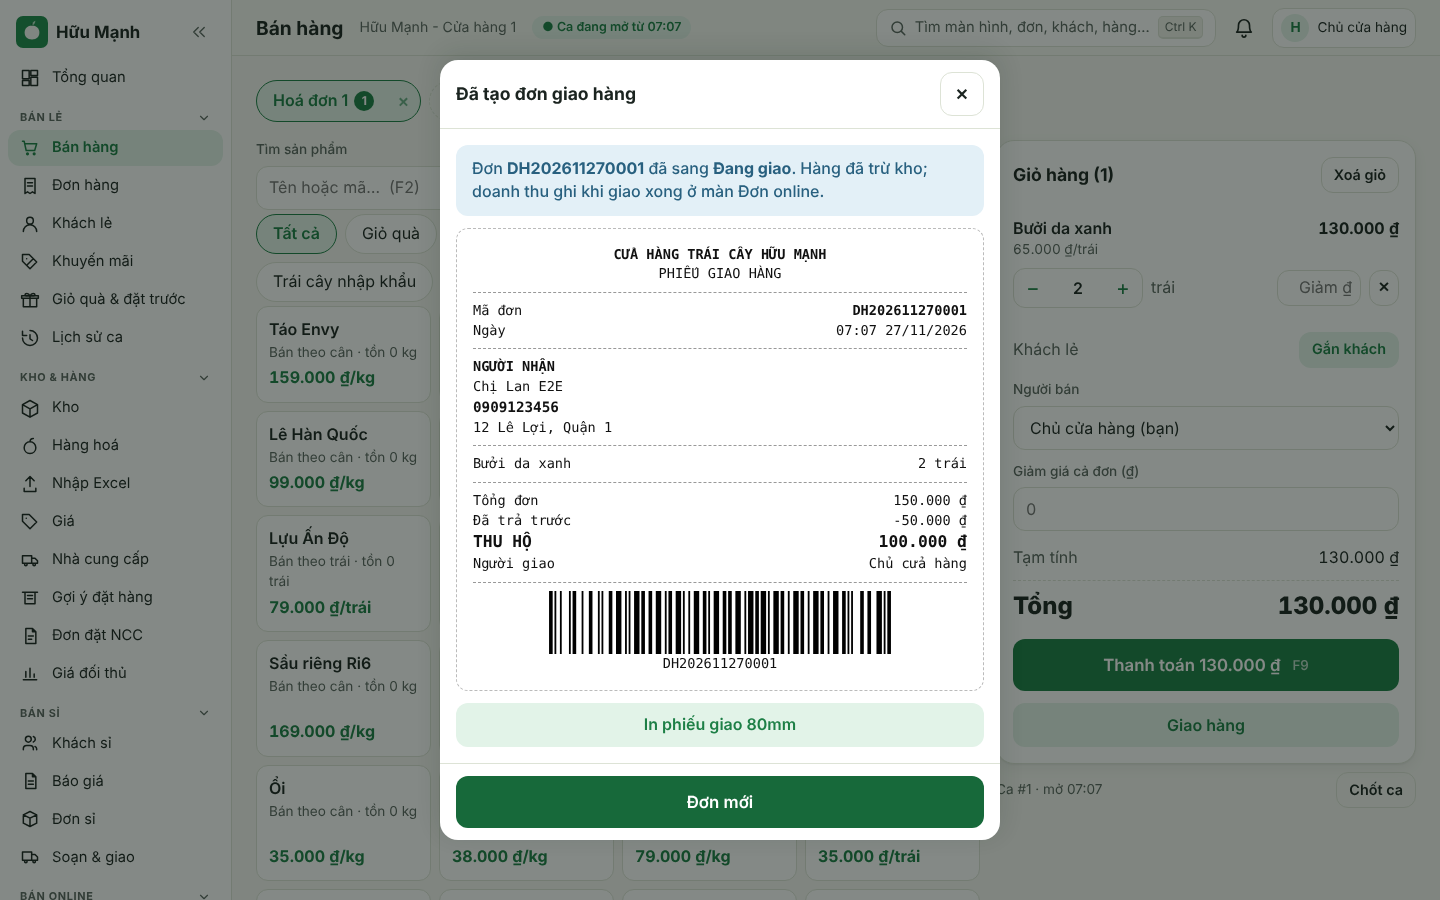
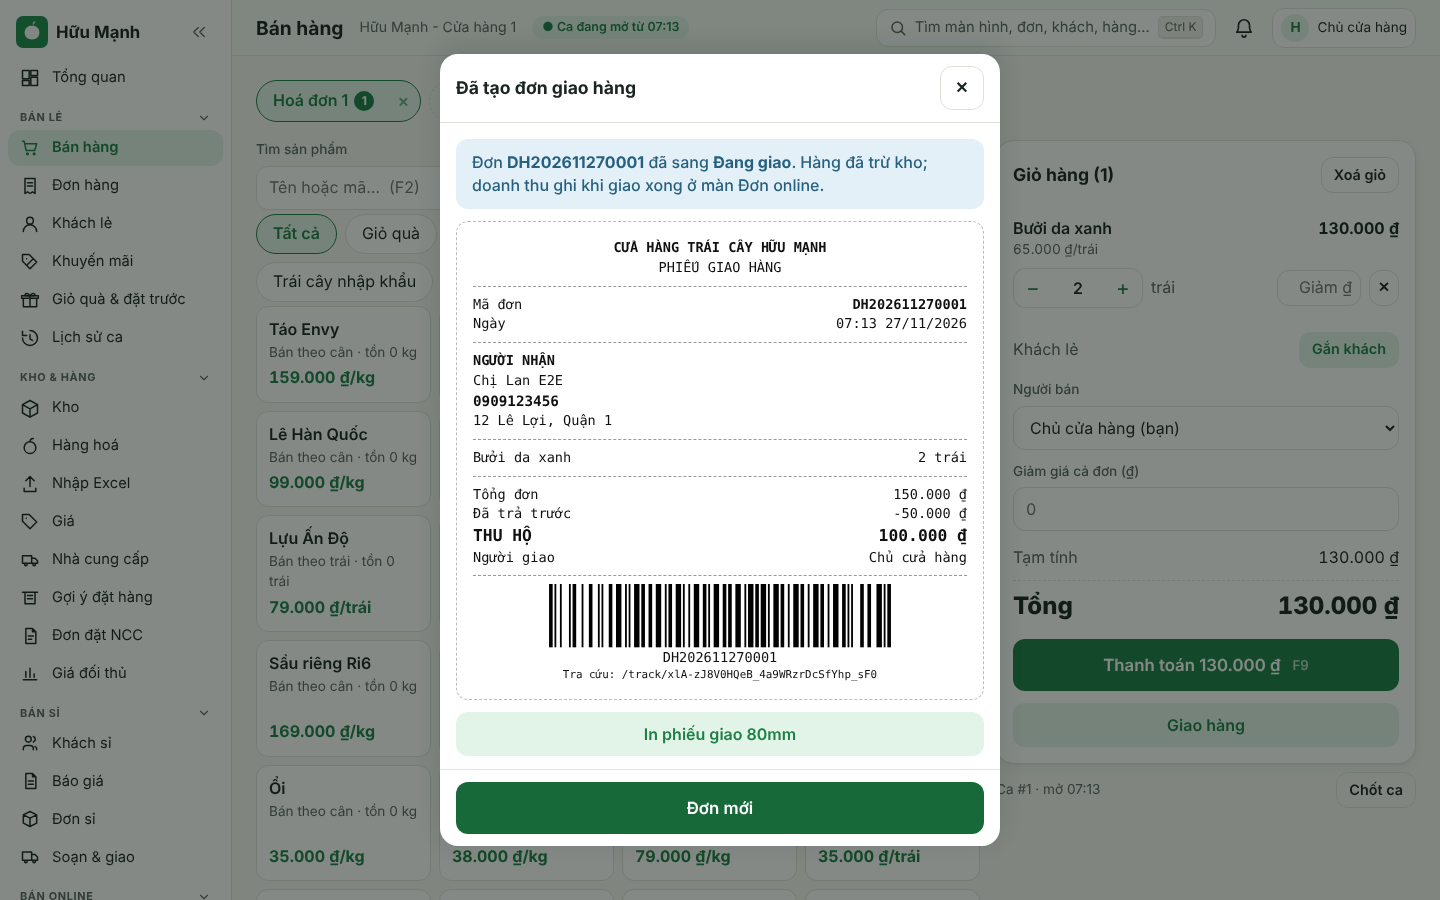
POS-KV B3: bổ sung test 403 + lỗi giữa chừng, nhãn trả trước một phần, sửa khu vực 390px, link tra cứu trên phiếu giao
- test: vai không có pos.sell → 403; lỗi ở bước ship → đơn tự huỷ, không giữ hàng/payments/xuất kho; list trả paidTotal
- Đơn online: đơn từ quầy hiện 'Trả trước X · thu hộ Y' / 'Đã thanh toán'
- sheet giao hàng: khu vực + phí giao full width, tổng đơn lên đầu sheet
- phiếu giao 80mm in link tra cứu (SHOP_BASE_URL + /track/<token>)
- chụp lại ảnh pos-kv-b3-*

Claude-Session: https://claude.ai/code/session_01B1cfSLiaJCBmAvf46zapqc

diff --git a/src/web/screens/online/OnlineOrders.tsx b/src/web/screens/online/OnlineOrders.tsx
@@ -7,7 +7,7 @@ import { navigate, usePath } from "../../router";
 import { useCan } from "../../store";
 import { Back, Lnk, q3, waitLabel } from "../b2b/kit";
 import { DateRangeFilter, DetailPanel, ExportButton, FilterBar, FilterSelect, KpiRow, PageHeader, SearchInput, SplitLayout, rangeOf, usePagedList, useWide, type DateRange } from "../../components/list";
-import { CHANNEL_LABEL, PAY_METHOD, PAY_STATUS, STATUS_LABEL, TABS, WEIGHT_LABEL, statusTone, ymdShow } from "./kit";
+import { CHANNEL_LABEL, PAY_METHOD, PAY_STATUS, payText, STATUS_LABEL, TABS, WEIGHT_LABEL, statusTone, ymdShow } from "./kit";
 
 export default function OnlineOrders() {
   const path = usePath();
@@ -44,7 +44,7 @@ function OrderList() {
           <ExportButton filename={`don-online-${range.from}_${range.to}`} rows={rows} columns={[
             { label: "Mã đơn", value: (o) => o.code }, { label: "Thời gian", value: (o) => fmtDateTime(o.createdAt) }, { label: "Kênh", value: (o) => chLabel(o) }, { label: "Trạng thái", value: (o) => STATUS_LABEL[o.status] ?? o.status },
             { label: "Người nhận", value: (o) => o.receiverName }, { label: "SĐT", value: (o) => o.receiverPhone }, { label: "Khu vực", value: (o) => o.district ?? o.zoneName }, { label: "Ngày giao", value: (o) => o.slotDate },
-            { label: "Thanh toán", value: (o) => `${PAY_METHOD[o.paymentMethod] ?? o.paymentMethod} · ${PAY_STATUS[o.paymentStatus] ?? o.paymentStatus}` }, { label: "Tổng", value: (o) => o.total },
+            { label: "Thanh toán", value: (o) => payText(o) }, { label: "Tổng", value: (o) => o.total },
           ]} />
           <Lnk to="/online-orders/new" className="btn">+ Tạo đơn mạng xã hội</Lnk>
         </>} />
@@ -79,7 +79,7 @@ function OrderList() {
                 { key: "r", label: "Người nhận", sort: (o) => o.receiverName ?? "", render: (o) => <span><span className="nw">{o.receiverName}</span><div className="small muted">{o.receiverPhone}</div></span> },
                 { key: "ch", label: "Kênh", hideBelow: 1440, sort: (o) => chLabel(o), render: (o) => <span className="nw">{chLabel(o)}</span> },
                 { key: "z", label: "Giao", sort: (o) => o.slotDate ?? "", render: (o) => <span>{o.slotDate ? `${ymdShow(o.slotDate)} ${o.slotLabel ?? ""}` : "Chưa hẹn"}<div className="small muted">{o.district ?? "—"}</div></span> },
-                { key: "p", label: "Thanh toán", hideBelow: 1600, render: (o) => <Badge tone={o.paymentStatus === "paid" ? "ok" : "warn"}>{PAY_METHOD[o.paymentMethod] ?? o.paymentMethod} · {PAY_STATUS[o.paymentStatus] ?? o.paymentStatus}</Badge> },
+                { key: "p", label: "Thanh toán", hideBelow: 1600, render: (o) => <Badge tone={o.paymentStatus === "paid" ? "ok" : "warn"}>{payText(o)}</Badge> },
                 { key: "s", label: "Trạng thái", sort: (o) => o.status, render: (o) => (
                   <span className="row wrap st-badges" style={{ gap: 4 }}>
                     <Badge tone={statusTone(o.status)}>{STATUS_LABEL[o.status] ?? o.status}</Badge>
@@ -142,7 +142,7 @@ function OrderDetail({ id, panel }: { id: number; panel?: { onClose: () => void;
         <div className="row between wrap"><span className="muted small">{chLabel(o)} · tạo {fmtDateTime(o.createdAt)}</span><Badge tone={statusTone(st)}>{STATUS_LABEL[st] ?? st}</Badge></div>
       )}
       <div className="row wrap" style={{ gap: 6 }}>
-        <Badge tone={o.paymentStatus === "paid" ? "ok" : "warn"}>{PAY_METHOD[o.paymentMethod] ?? o.paymentMethod} · {PAY_STATUS[o.paymentStatus] ?? o.paymentStatus}</Badge>
+        <Badge tone={o.paymentStatus === "paid" ? "ok" : "warn"}>{payText(o)}</Badge>
         {o.isPreorder && <Badge tone="info">Đặt trước</Badge>}
         {o.awaitingStock && <Badge tone="warn">Chờ hàng về</Badge>}
         {WEIGHT_LABEL[o.weightAdjustStatus] && <Badge tone={weightBlock ? "warn" : "info"}>{WEIGHT_LABEL[o.weightAdjustStatus]}</Badge>}

diff --git a/src/web/components/PosDeliverySheet.tsx b/src/web/components/PosDeliverySheet.tsx
@@ -88,7 +88,7 @@ export function PosDeliverySheet({ lines, customer, hasManualDiscount, onClose, 
       <Sheet open onClose={onDone} title="Đã tạo đơn giao hàng" footer={<Button block size="lg" onClick={onDone}>Đơn mới</Button>}>
         <div className="stack">
           <Banner tone="info">Đơn <b>{res.code}</b> đã sang <b>Đang giao</b>. Hàng đã trừ kho; doanh thu ghi khi giao xong ở màn Đơn online.</Banner>
-          <DeliverySlip code={res.code} total={res.total} cod={res.cod} prepay={res.prepay} {...snap} />
+          <DeliverySlip code={res.code} total={res.total} cod={res.cod} prepay={res.prepay} trackingUrl={res.trackingUrl} {...snap} />
           <Button block variant="soft" data-testid="print-slip" onClick={() => window.print()}>In phiếu giao 80mm</Button>
         </div>
       </Sheet>
@@ -120,13 +120,11 @@ export function PosDeliverySheet({ lines, customer, hasManualDiscount, onClose, 
           </div>
         )}
         <TextArea label="Địa chỉ giao" rows={2} value={address} onChange={(e) => setAddress(e.target.value)} />
-        <div className="grid2">
-          <Select label="Khu vực giao" value={String(zoneId)} onChange={(e) => pickZone(Number(e.target.value))}>
-            <option value="0">Chọn khu vực (gợi ý phí)</option>
-            {(zones.data ?? []).map((z) => <option key={z.id} value={z.id}>{z.name} · {money(z.fee)}</option>)}
-          </Select>
-          <MoneyInput label="Phí giao (₫)" value={fee} onChange={setFee} hint="Sửa được; ghi vào phí giao của đơn" />
-        </div>
+        <Select label="Khu vực giao" value={String(zoneId)} onChange={(e) => pickZone(Number(e.target.value))}>
+          <option value="0">Chọn khu vực (gợi ý phí)</option>
+          {(zones.data ?? []).map((z) => <option key={z.id} value={z.id}>{z.name} · {money(z.fee)}</option>)}
+        </Select>
+        <MoneyInput label="Phí giao (₫)" value={fee} onChange={setFee} hint="Sửa được; ghi vào phí giao của đơn" />
 
         <div className="stack" style={{ gap: 6 }}>
           <span className="lbl">Người giao</span>
@@ -163,7 +161,7 @@ export function PosDeliverySheet({ lines, customer, hasManualDiscount, onClose, 
 }
 
 /** Phiếu giao 80mm: người nhận, địa chỉ, số thu hộ, mã đơn + mã vạch. Dùng khuôn `.receipt print-area` của hoá đơn. */
-function DeliverySlip({ code, total, cod, prepay, name, phone, address, deliverer, lines }: { code: string; total: number; cod: number; prepay: number; name: string; phone: string; address: string; deliverer: string; lines: DeliveryLine[] }) {
+function DeliverySlip({ code, total, cod, prepay, trackingUrl, name, phone, address, deliverer, lines }: { code: string; total: number; cod: number; prepay: number; trackingUrl: string; name: string; phone: string; address: string; deliverer: string; lines: DeliveryLine[] }) {
   return (
     <>
       <style>{`@media print { @page { size: 80mm auto; margin: 3mm; } }`}</style>
@@ -188,6 +186,7 @@ function DeliverySlip({ code, total, cod, prepay, name, phone, address, delivere
         <hr />
         <div style={{ display: "grid", placeItems: "center" }}><Barcode value={code} /></div>
         <div style={{ textAlign: "center" }}>{code}</div>
+        <div style={{ textAlign: "center", fontSize: ".8em", wordBreak: "break-all" }} data-testid="slip-track">Tra cứu: {trackingUrl}</div>
       </div>
     </>
   );

diff --git a/src/worker/routes/pos-delivery.ts b/src/worker/routes/pos-delivery.ts
@@ -69,6 +69,9 @@ async function quoteSubtotal(db: D1Database, customerId: number | null, lines: {
   return subtotal;
 }
 
+/** Link tra cứu của khách: tuyệt đối nếu cấu hình SHOP_BASE_URL, không thì đường dẫn tương đối. */
+const trackUrl = (env: { SHOP_BASE_URL?: string }, token: string) => `${(env.SHOP_BASE_URL ?? "").replace(/\/$/, "")}/track/${token}`;
+
 posDeliveryRoutes.post("/pos/delivery-quote", requirePerm("pos.sell"), async (c) => {
   const b = z.object({ customerId: z.number().int().positive().nullish(), lines: deliverySchema.shape.lines }).parse(await c.req.json().catch(() => ({})));
   return c.json({ subtotal: await quoteSubtotal(c.env.DB, b.customerId ?? null, b.lines) });
@@ -87,7 +90,7 @@ posDeliveryRoutes.post("/pos/delivery-orders", requirePerm("pos.sell"), async (c
   // Idempotent theo clientUuid: gửi lại cùng mã thì trả đơn đã tạo
   if (b.clientUuid) {
     const ex = await db.prepare(`SELECT id, code, tracking_token, status FROM orders WHERE client_uuid = ?`).bind(b.clientUuid).first<any>();
-    if (ex && ex.status !== "draft") return c.json({ id: ex.id, code: ex.code, status: ex.status, trackingToken: ex.tracking_token, trackingUrl: `/track/${ex.tracking_token}`, created: false });
+    if (ex && ex.status !== "draft") return c.json({ id: ex.id, code: ex.code, status: ex.status, trackingToken: ex.tracking_token, trackingUrl: trackUrl(c.env, ex.tracking_token), created: false });
   }
 
   // Người giao
@@ -140,7 +143,7 @@ posDeliveryRoutes.post("/pos/delivery-orders", requirePerm("pos.sell"), async (c
   const id = created.id;
   if (!created.created) {
     const ex = await db.prepare(`SELECT code, status, tracking_token FROM orders WHERE id = ?`).bind(id).first<any>();
-    return c.json({ id, code: ex.code, status: ex.status, trackingToken: ex.tracking_token, trackingUrl: `/track/${ex.tracking_token}`, created: false });
+    return c.json({ id, code: ex.code, status: ex.status, trackingToken: ex.tracking_token, trackingUrl: trackUrl(c.env, ex.tracking_token), created: false });
   }
 
   // 2) Các bước chuyển trạng thái sẵn có. Lỗi giữa chừng → huỷ đơn (nhả giữ hàng), chưa có tiền nào được ghi.
@@ -171,7 +174,7 @@ posDeliveryRoutes.post("/pos/delivery-orders", requirePerm("pos.sell"), async (c
     throw e;
   }
   const row = await db.prepare(`SELECT code, status, tracking_token FROM orders WHERE id = ?`).bind(id).first<any>();
-  return c.json({ id, code: row.code, status: row.status, total, prepay: prepayTotal, cod: b.cod, trackingToken: row.tracking_token, trackingUrl: `/track/${row.tracking_token}`, created: true }, 201);
+  return c.json({ id, code: row.code, status: row.status, total, prepay: prepayTotal, cod: b.cod, trackingToken: row.tracking_token, trackingUrl: trackUrl(c.env, row.tracking_token), created: true }, 201);
 });
 
 // Danh mục cho sheet giao hàng ở POS (thu ngân không có orders.online.manage)

diff --git a/test/pos-delivery.test.ts b/test/pos-delivery.test.ts
@@ -147,6 +147,36 @@ describe("POST /pos/delivery-orders", () => {
     expect((await api("warehouse", "POST", `${V}/pos/delivery-quote`, { lines: [{ productId: 1, unit: "kg", qty: 3 }] })).status).toBe(403);
   });
 
+  it("vai không có pos.sell (thủ kho, kế toán) → 403, không tạo đơn", async () => {
+    const n0 = (await db().prepare(`SELECT COUNT(*) n FROM orders WHERE source='pos'`).first<any>())!.n;
+    for (const role of ["warehouse", "accountant"]) expect((await create(role, body())).status).toBe(403);
+    expect((await db().prepare(`SELECT COUNT(*) n FROM orders WHERE source='pos'`).first<any>())!.n).toBe(n0);
+  });
+
+  it("lỗi giữa chừng (bước ship thất bại) → đơn tự huỷ, không giữ hàng, không payments, kho nguyên", async () => {
+    await db().prepare(`CREATE TRIGGER t_boom BEFORE INSERT ON payments WHEN NEW.amount = 77777 BEGIN SELECT RAISE(ABORT, 'boom'); END`).run();
+    const q0 = await lotQty(1);
+    const before = (await db().prepare(`SELECT COALESCE(MAX(id),0) m FROM orders`).first<any>())!.m;
+    const r = await create("cashier", body({ prepay: [{ method: "cash", amount: 77777 }], cod: 220000 - 77777 }));
+    await db().prepare(`DROP TRIGGER t_boom`).run();
+    expect(r.status).toBeGreaterThanOrEqual(400);
+    const created = (await db().prepare(`SELECT id, status, paid_total FROM orders WHERE id > ?`).bind(before).all<any>()).results;
+    expect(created.length).toBe(1);
+    expect(created[0]).toMatchObject({ status: "cancelled", paid_total: 0 });
+    const id = created[0].id;
+    expect((await db().prepare(`SELECT COUNT(*) n FROM payments WHERE order_id=?`).bind(id).first<any>()).n).toBe(0);
+    expect((await db().prepare(`SELECT COUNT(*) n FROM reservations WHERE order_id=? AND status='active'`).bind(id).first<any>()).n).toBe(0);
+    expect((await db().prepare(`SELECT COUNT(*) n FROM order_line_lots oll JOIN order_lines ol ON ol.id=oll.order_line_id WHERE ol.order_id=?`).bind(id).first<any>()).n).toBe(0);
+    expect(await lotQty(1)).toBe(q0);
+  });
+
+  it("danh sách Đơn online trả paidTotal để hiện 'Trả trước X · thu hộ Y'", async () => {
+    const r = await create("cashier", body({ prepay: [{ method: "cash", amount: 50000 }], cod: 170000 }));
+    const l = await api("manager", "GET", `${V}/online-orders?source=pos`);
+    const it = l.body.items.find((x: any) => x.id === r.body.id);
+    expect(it).toMatchObject({ source: "pos", paidTotal: 50000, total: 220000, paymentStatus: "unpaid" });
+  });
+
   it("kỳ khoá sổ → 423, không ghi gì", async () => {
     const n0 = (await db().prepare(`SELECT COUNT(*) n FROM orders WHERE source='pos'`).first<any>())!.n;
     await db().prepare(`INSERT INTO periods(period, locked_at, locked_by) VALUES (?, strftime('%Y-%m-%dT%H:%M:%fZ','now'), 1)`).bind(vnPeriod()).run();

diff --git a/src/worker/routes/online-orders.ts b/src/worker/routes/online-orders.ts
@@ -69,7 +69,7 @@ onlineOrderRoutes.get("/online-orders", requirePerm("orders.online.manage"), asy
   const rows = (
     await c.env.DB
       .prepare(
-        `SELECT o.id, o.code, o.channel, o.source, o.carrier, o.carrier_tracking_no, o.status, o.payment_method, o.payment_status, o.slot_date, s.label AS slot_label, o.receiver_name, o.receiver_phone,
+        `SELECT o.id, o.code, o.channel, o.source, o.carrier, o.carrier_tracking_no, o.status, o.payment_method, o.payment_status, o.paid_total, o.slot_date, s.label AS slot_label, o.receiver_name, o.receiver_phone,
                 o.ship_address, z.name AS zone_name, o.total, o.estimated_total, o.weight_adjust_status, o.created_at, o.is_preorder, o.diff_amount, o.diff_status, o.refund_due,
                 EXISTS (SELECT 1 FROM order_lines ol JOIN products p ON p.id = ol.product_id WHERE ol.order_id = o.id AND p.sell_by_weight = 1) AS has_weight,
                 (SELECT COALESCE(SUM(s.qty_milli), 0) FROM so_shortages s WHERE s.order_id = o.id AND s.status = 'open') AS short_milli
@@ -92,6 +92,7 @@ onlineOrderRoutes.get("/online-orders", requirePerm("orders.online.manage"), asy
     statusLabel: CUSTOMER_LABEL[r.status as OnlineStatus] ?? r.status,
     paymentMethod: r.payment_method,
     paymentStatus: r.payment_status,
+    paidTotal: r.paid_total,
     slotDate: r.slot_date,
     slotLabel: r.slot_label,
     receiverName: r.receiver_name,

diff --git a/src/web/screens/online/kit.tsx b/src/web/screens/online/kit.tsx
@@ -92,3 +92,13 @@ export function TagInput({ label, value, onChange }: { label: string; value: str
 export const Toggle = ({ label, checked, onChange }: { label: string; checked: boolean; onChange: (v: boolean) => void }) => (
   <label className="row" style={{ minHeight: 44 }}><input type="checkbox" style={{ width: 22, height: 22 }} checked={checked} onChange={(e) => onChange(e.target.checked)} /> {label}</label>
 );
+
+/** Nhãn thanh toán của đơn online. Đơn giao từ quầy (source=pos): "Trả trước X · thu hộ Y" hoặc "Đã thanh toán" thay vì "COD · Chưa thanh toán". */
+export const payText = (o: { source?: string | null; paymentMethod?: string | null; paymentStatus?: string; paidTotal?: number; total?: number }) => {
+  if (o.source === "pos" && o.paymentStatus === "paid") return "Đã thanh toán";
+  if (o.source === "pos" && (o.paidTotal ?? 0) > 0 && o.paymentStatus === "unpaid") {
+    const f = (n: number) => new Intl.NumberFormat("vi-VN").format(n) + " ₫";
+    return `Trả trước ${f(o.paidTotal!)} · thu hộ ${f(Math.max(0, (o.total ?? 0) - o.paidTotal!))}`;
+  }
+  return `${PAY_METHOD[o.paymentMethod ?? ""] ?? o.paymentMethod} · ${PAY_STATUS[o.paymentStatus ?? ""] ?? o.paymentStatus}`;
+};
